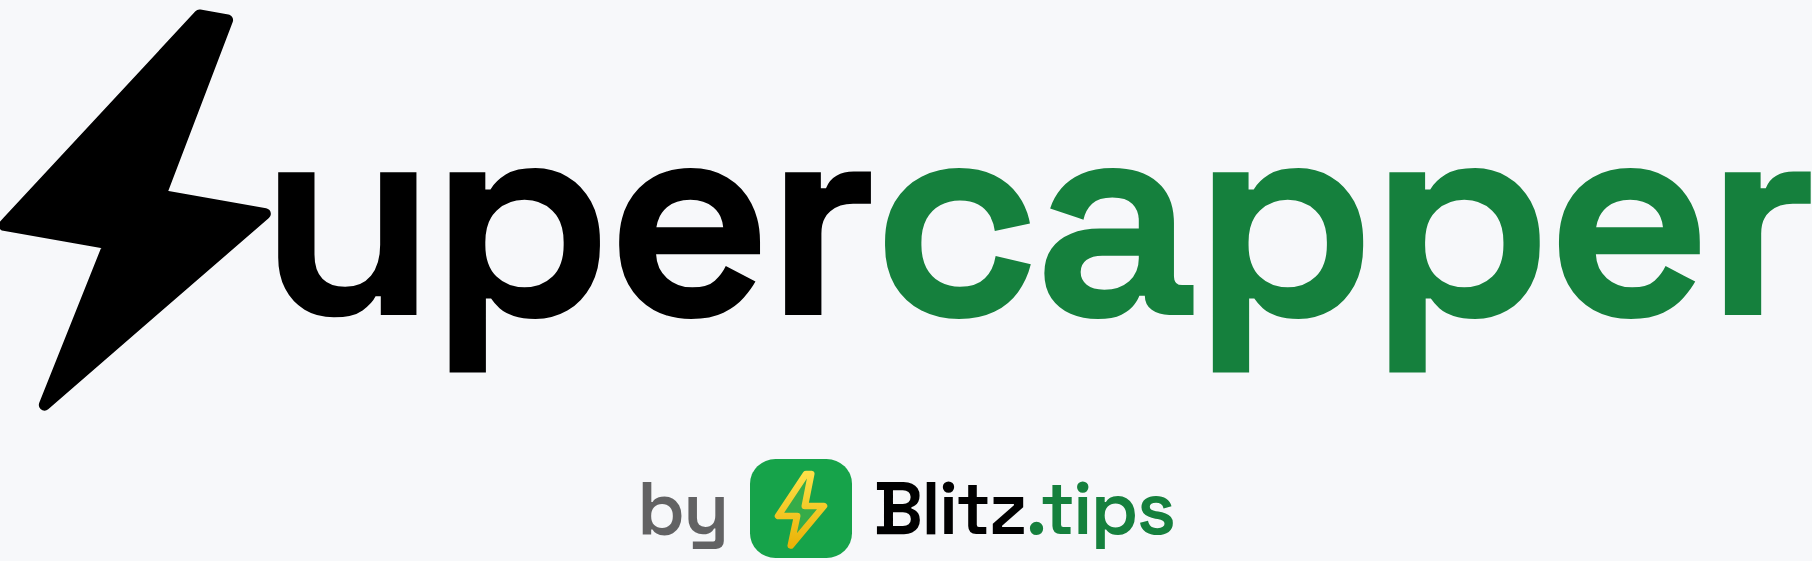
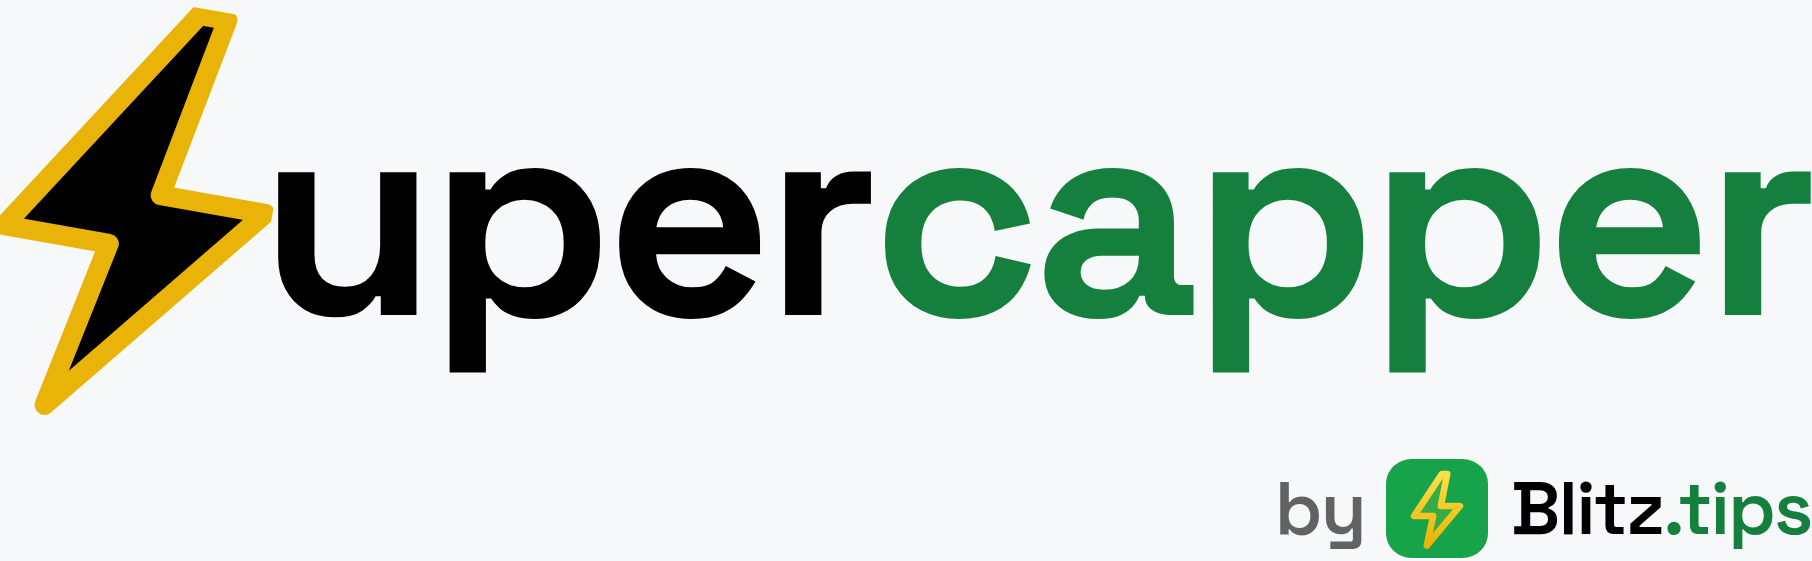
Gold-outlined bolt, "Handicapping Contest" tagline, linked byline
Four changes to the lockup:

The bolt keeps its currentColor fill but gains a gold outline, thickened
to 1.4 so it reads at banner size — the one place the original bolt's
color survives.

The tagline is now "Handicapping Contest". It's twice the character
count of "contest", so the letterspacing drops from 0.5em to 0.34em and
the size from 0.24em to 0.185em; at those values it lands just under the
wordmark's width instead of overrunning it.

The byline aligns to the right end of the mark rather than centering, and
is now a link to blitz.tips.

Making it a link meant restructuring the accessibility: role="img" moved
off the outer wrapper (an interactive element inside it would have been
announced as presentational) and onto the mark and tagline alone, with
the link carrying its own label.

Re-exported the four public/ lockup PNGs.

Claude-Session: https://claude.ai/code/session_016YpNsra3VmRDhQw8QQMKUK

Changed region(s): [[0.0, 0.0, 0.1545, 0.7576], [0.6799, 0.8182, 1.0, 1.0], [0.34, 0.8182, 0.649, 1.0]]

diff --git a/src/components/contest/supercapper-logo.tsx b/src/components/contest/supercapper-logo.tsx
@@ -1,16 +1,18 @@
 import Image from "next/image";
 import { cn } from "@/lib/utils";
 
+const BLITZ_URL = "https://blitz.tips";
+
 // The Supercapper wordmark: the leading "S" is a thunder bolt, followed by
-// "upercapper" in the display font. Two colors only — the bolt and "uper" take
-// the surrounding text color (black on light, white reversed), and "capper"
-// carries the brand green. Pass `onDark` on a dark surface: the accent green is
-// tuned for contrast on white and goes muddy on charcoal, so it steps up to
-// green-500 there.
-// A sub-line can sit beneath: `withContest` for "contest", `withByline` for
-// "by Blitz.tips" — the attribution lockup, for anywhere the contest appears
-// away from the site's own chrome (social, email, partner placements). Both
-// together stack contest over the byline.
+// "upercapper" in the display font. The bolt and "uper" take the surrounding
+// text color (black on light, white reversed) with a gold outline on the bolt;
+// "capper" carries the brand green. Pass `onDark` on a dark surface: the accent
+// green is tuned for contrast on white and goes muddy on charcoal, so it steps
+// up to green-500 there.
+// A sub-line can sit beneath: `withContest` for "Handicapping Contest",
+// `withByline` for the Blitz.tips attribution lockup, which links back to the
+// site — for anywhere the contest appears away from the site's own chrome
+// (social, email, partner placements). Both together stack tagline over byline.
 // Sizes with the font (set the size via a text-* class); the word text inherits
 // `currentColor`, so it works on light and dark.
 export function SupercapperLogo({
@@ -26,67 +28,72 @@ export function SupercapperLogo({
   onDark?: boolean;
 }) {
   const accent = onDark ? "text-[#22c55e]" : "text-accent";
-  const label = [
-    "Supercapper",
-    withContest ? " Contest" : "",
-    withByline ? " by Blitz.tips" : "",
-  ].join("");
 
   return (
-    <span
-      className={cn("relative inline-flex flex-col leading-none", className)}
-      role="img"
-      aria-label={label}
-    >
-      <span className="inline-flex items-center font-display font-extrabold tracking-tight">
-        {/* viewBox is cropped tight to the bolt's bounds (no transparent
-            padding) so it can sit flush against the "u". Tilted 10° so it reads
-            as a strike rather than a static glyph; the rotation widens its
-            footprint, hence the smaller negative margin than an upright bolt.
-            Fill and stroke are both currentColor, so the bolt belongs to the
-            neutral half of the mark — black on light, white reversed. */}
-        <svg
-          viewBox="10.5 5.5 19 30.5"
-          className="-mr-[0.04em] h-[1.5em] w-[0.94em] rotate-[10deg]"
-          fill="none"
-          aria-hidden
-        >
-          <path
-            d="M22 6 L11 23 H18.5 L16 35 L29 19 H21.5 L24 6 Z"
-            fill="currentColor"
-            stroke="currentColor"
-            strokeWidth="0.8"
-            strokeLinejoin="round"
-          />
-        </svg>
-        <span>uper</span>
-        <span className={accent}>capper</span>
-      </span>
-      {withContest && (
-        <span
-          aria-hidden
-          className="mt-[0.06em] self-center text-[0.24em] font-semibold uppercase tracking-[0.5em] text-current opacity-80"
-        >
-          contest
+    <span className={cn("relative inline-flex flex-col leading-none", className)}>
+      {/* The mark itself is one image to a screen reader. The byline below is a
+          real link, so it sits outside this role="img" rather than inside it,
+          where its contents would be announced as presentational. */}
+      <span
+        role="img"
+        aria-label={withContest ? "Supercapper Handicapping Contest" : "Supercapper"}
+        className="inline-flex flex-col"
+      >
+        <span className="inline-flex items-center font-display font-extrabold tracking-tight">
+          {/* viewBox is cropped tight to the bolt's bounds (no transparent
+              padding) so it can sit flush against the "u". Tilted 10° so it
+              reads as a strike rather than a static glyph; the rotation widens
+              its footprint, hence the smaller negative margin than an upright
+              bolt. Fill is currentColor — black on light, white reversed — with
+              a gold outline, the one place the original bolt's color survives. */}
+          <svg
+            viewBox="10.5 5.5 19 30.5"
+            className="-mr-[0.04em] h-[1.5em] w-[0.94em] rotate-[10deg]"
+            fill="none"
+            aria-hidden
+          >
+            <path
+              d="M22 6 L11 23 H18.5 L16 35 L29 19 H21.5 L24 6 Z"
+              fill="currentColor"
+              stroke="#eab308"
+              strokeWidth="1.4"
+              strokeLinejoin="round"
+            />
+          </svg>
+          <span>uper</span>
+          <span className={accent}>capper</span>
         </span>
-      )}
+        {withContest && (
+          <span
+            aria-hidden
+            className="mt-[0.14em] self-center text-[0.185em] font-semibold uppercase tracking-[0.34em] text-current opacity-80"
+          >
+            Handicapping Contest
+          </span>
+        )}
+      </span>
+
       {withByline && (
-        // The real Blitz.tips lockup — mark plus wordmark, same as the site
-        // header — rather than a text imitation of it. Only the "by" is faded;
-        // the logo itself stays at full strength.
-        <span
-          aria-hidden
+        // The real Blitz.tips lockup — mark plus wordmark, same pairing as the
+        // site header — rather than a text imitation of it, and clickable so the
+        // attribution actually leads somewhere. Only the "by" is faded; the logo
+        // itself stays at full strength.
+        <a
+          href={BLITZ_URL}
+          aria-label="Blitz.tips"
           className={cn(
-            "flex items-center gap-[0.3em] self-center text-[0.26em] font-semibold tracking-tight",
-            withContest ? "mt-[0.6em]" : "mt-[0.35em]"
+            "flex items-center gap-[0.3em] self-end text-[0.26em] font-semibold tracking-tight hover:opacity-80",
+            withContest ? "mt-[0.7em]" : "mt-[0.35em]"
           )}
         >
-          <span className="opacity-60">by</span>
+          <span aria-hidden className="opacity-60">
+            by
+          </span>
           <Image src="/logo-mark.svg" alt="" width={40} height={40} className="h-[1.35em] w-[1.35em]" />
-          <span>
+          <span aria-hidden>
             Blitz<span className={accent}>.tips</span>
           </span>
-        </span>
+        </a>
       )}
     </span>
   );
